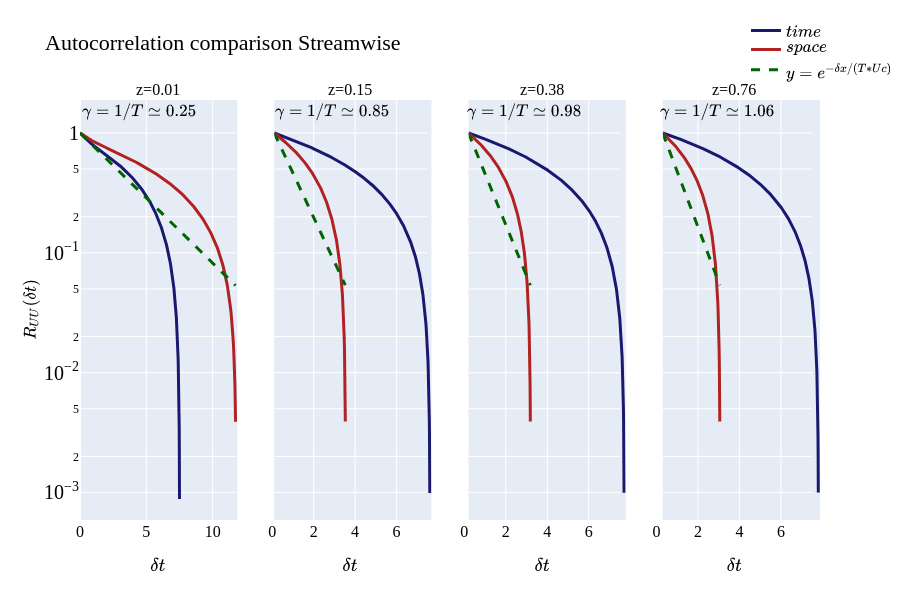
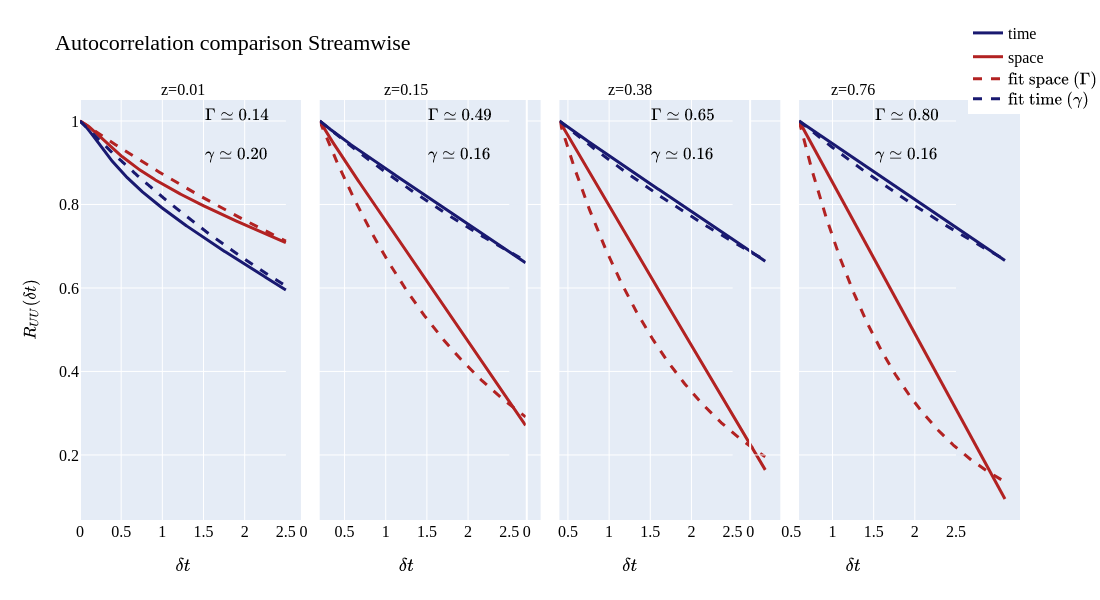
some new

diff --git a/src/main.py b/src/main.py
@@ -117,8 +117,6 @@ def main():
     # t = np.linspace(0,(tEnd-tStart)*dt,nt)
     # X = np.linspace(-np.pi, np.pi, n1)
     
-    dx = cflow.xlen / n1
-    
     print(f'{YELLOW}Streamwise paraeters{RESET}')
     print('len x1:', len(x1))
     print('len x2:', len(x2))
@@ -130,7 +128,8 @@ def main():
 
     ##### FROZEN TURBULENCE #####
     col = 1
-    fig1, fig2, fig3, fig4 = init_figures(z, n2) #Figure initialization
+    fig1u1, fig2u1, fig3u1, fig4u1 = init_figures(z, n2) #Figure initialization
+    fig1u2, fig2u2, fig3u2, fig4u2 = init_figures(z, n2)
     start_time = time.time()
     
     for zplan in np.arange(0, n2, n2//3, dtype=int):
@@ -138,40 +137,44 @@ def main():
         print("========================================")
         print(f'Frozen turbulence validation for {YELLOW}z={z[zplan]:.2f}{RESET}')
         print('Plan number:', zplan)
-        print("Reading input files ...\n")
+        print("Reading input files u1 streamwise...\n")
         _,_,_,var,_,_,_,_,_,_,_,_,_ = read_fpar_extract_plane(fpars_files_streamwise_u1[zplan])
         nt = nt - 1
         dx = cflow.xlen / n1
         datas_u1 = var[1:,:,:]
         
-        Uc = np.mean(np.mean(np.mean(datas_u1[:,:,:], axis=-1), axis=-1))
-        print('Uc:', Uc)
+        U1 = np.mean(np.mean(np.mean(datas_u1[:,:,:], axis=-1), axis=-1))
+        print('U1:', U1)
+        print('dx/U1:', dx/U1)
+        print('dt:', dt)
+        print('dx:', dx)
+        print('dt*Uc', dt*U1)
         
         #### Spectra ####
-        # omega, k, time_spectra, space_spectra = frozen_turbulence(datas_u1, zplan, z, nt, split_time, dt, n1, dx=dx, ch="spectra")
+        omega, k, time_spectra, space_spectra = frozen_turbulence(datas_u1, zplan, z, nt, split_time, dt, n1, dx=dx, ch="spectra")
         
-        # frozen_turbulence_plot(fig1, col, omega = omega, Uc = Uc, time_spectra = time_spectra, k = k, space_spectra = space_spectra, ch = "spectra")
+        frozen_turbulence_plot(fig1u1, col, omega = omega, Uc = U1, time_spectra = time_spectra, k = k, space_spectra = space_spectra, ch = "spectra")
         
-        # del time_spectra
-        # del space_spectra
-        # del omega
-        # del k
+        del time_spectra
+        del space_spectra
+        del omega
+        del k
         
         #### Autocorrelation ####
-        Dt, Dx, R_time, R_space = frozen_turbulence(datas_u1, zplan, z, nt, split_time, dt, n1, tEnd=tEnd, tStart=tStart, ch="corr")
+        # ind, Dt, Dx, R_time, R_space = frozen_turbulence(datas_u1, zplan, z, nt, split_time, dt, n1, tEnd=tEnd, tStart=tStart, ch="corr", dx=dx, Uc=U1)
 
-        frozen_turbulence_plot(fig2, col, Uc=Uc, R_time = R_time, R_space = R_space, Dt = Dt, Dx = Dx, ch = "corr")
+        # frozen_turbulence_plot(fig2u1, col, Uc=U1, R_time = R_time, R_space = R_space, Dt = Dt, Dx = Dx, ch = "corr", ind=ind)
         
-        del Dt
-        del Dx
-        del R_time
-        del R_space
+        # del Dt
+        # del Dx
+        # del R_time
+        # del R_space
         
         #### Autocorrelation 2D ####
         
         # Dt, Dx, R2d, coef = frozen_turbulence(datas_u1, zplan, z, nt, split_time, dt, n1, tEnd = tEnd, tStart = tStart, ch = "corr2d")
         
-        # frozen_turbulence_plot(fig3, col, Dt = Dt, Dx = Dx, R2d=R2d, coef=coef, ch = "corr2d")
+        # frozen_turbulence_plot(fig3u1, col, Dt = Dt, Dx = Dx, R2d=R2d, coef=coef, ch = "corr2d")
         
         # del Dt
         # del Dx
@@ -180,34 +183,102 @@ def main():
         #### Gamma ####
         
         # for delta_x in range(1, 20, 5):
-        #     kc, omega, funct = frozen_turbulence(datas_u1, zplan, z, nt, split_time, dt, n1, dx = delta_x, x1 = x1, Uc = Uc, ch = "gamma")
+        #     kc, omega, funct = frozen_turbulence(datas_u1, zplan, z, nt, split_time, dt, n1, dx = delta_x, x1 = x1, Uc = U1, ch = "gamma")
             
         #     r = np.abs(x1[delta_x] - x1[0])
             
             
-        #     frozen_turbulence_plot(fig4, col, omega = omega, k = kc, delta_x=delta_x, funct=funct, r=r, ch = "w_gamma")
+        #     frozen_turbulence_plot(fig4u1, col, omega = omega, k = kc, delta_x=delta_x, funct=funct, r=r, ch = "w_gamma")
             
         # del omega
         # del funct
         # del kc
         
-        # col +=1
-        # del datas_u1
+        
+        del datas_u1
+        
+        print("Reading input files u2 streamwise ...\n")
+        _,_,_,var,_,_,_,_,_,_,_,_,_ = read_fpar_extract_plane(fpars_files_streamwise_u2[zplan])
+        nt = nt - 1
+        dx = cflow.xlen / n1
+        datas_u2 = var[1:,:,:]
+        
+        U2 = np.mean(np.mean(np.mean(datas_u2[:,:,:], axis=-1), axis=-1))
+        print('U2:', U2)
+        
+        #### Spectra ####
+        omega, k, time_spectra, space_spectra = frozen_turbulence(datas_u2, zplan, z, nt, split_time, dt, n1, dx=dx, ch="spectra")
+        
+        frozen_turbulence_plot(fig1u2, col, omega = omega, Uc = U2, time_spectra = time_spectra, k = k, space_spectra = space_spectra, ch = "spectra")
+        
+        del time_spectra
+        del space_spectra
+        del omega
+        del k
+        
+        #### Autocorrelation ####
+        # ind, Dt, Dx, R_time, R_space = frozen_turbulence(datas_u2, zplan, z, nt, split_time, dt, n1, tEnd=tEnd, tStart=tStart, ch="corr", dx=dx, Uc=U2)
+
+        # frozen_turbulence_plot(fig2u2, col, Uc=U2, R_time = R_time, R_space = R_space, Dt = Dt, Dx = Dx, ch = "corr", ind=ind)
+        
+        # del Dt
+        # del Dx
+        # del R_time
+        # del R_space
+        
+        #### Autocorrelation 2D ####
+        
+        # Dt, Dx, R2d, coef = frozen_turbulence(datas_u2, zplan, z, nt, split_time, dt, n1, tEnd = tEnd, tStart = tStart, ch = "corr2d")
+        
+        # frozen_turbulence_plot(fig3u2, col, Dt = Dt, Dx = Dx, R2d=R2d, coef=coef, ch = "corr2d")
+        
+        # del Dt
+        # del Dx
+        # del R2d
+        
+        #### Gamma ####
+        
+        # for delta_x in range(1, 20, 5):
+        #     kc, omega, funct = frozen_turbulence(datas_u2, zplan, z, nt, split_time, dt, n1, dx = delta_x, x1 = x1, Uc = U2, ch = "gamma")
+            
+        #     r = np.abs(x1[delta_x] - x1[0])
+            
+            
+        #     frozen_turbulence_plot(fig4u2, col, omega = omega, k = kc, delta_x=delta_x, funct=funct, r=r, ch = "w_gamma")
+            
+        # del omega
+        # del funct
+        # del kc
+        
+        
+        del datas_u2
+        
+        col +=1
         
     elapsed_time = time.time() - start_time
     minutes, seconds = divmod(elapsed_time, 60)
         
     # Update layout properties
-    fig1.update_layout(height=600, width=900, title_text="Power spectra streawise", font=font, legend=dict(y=1.2, x=0.9))
-    fig2.update_layout(height=600, width=900, title_text='Autocorrelation comparison Streamwise', legend=dict(y=1.2, x=0.9), font=font)
-    fig3.update_layout(height=600, width=1100, title_text='Correlation 2D Streamwise', legend=dict(y=1.2, x=0.9), font=font)
-    fig4.update_layout(height=600, width=1100, title_text='Gamma determmination', legend=dict(y=1.2, x=1.0), font=font)
+    fig1u1.update_layout(height=600, width=1000, title_text="Power spectra streawise u1", font=font, legend=dict(y=1.2, x=1.0))
+    fig2u1.update_layout(height=600, width=1100, title_text='Autocorrelation comparison Streamwise u1', font=font,  legend=dict(y=1.2, x=1.0))
+    fig3u1.update_layout(height=600, width=1100, title_text='Correlation 2D Streamwise u1', legend=dict(y=1.2, x=0.9), font=font)
+    fig4u1.update_layout(height=600, width=1100, title_text='Gamma determination u1', legend=dict(y=1.2, x=1.0), font=font)
+    
+    fig1u2.update_layout(height=600, width=900, title_text="Power spectra Streawise u2", font=font, legend=dict(y=1.2, x=0.9))
+    fig2u2.update_layout(height=600, width=1100, title_text='Autocorrelation comparison Streamwise u2', font=font,  legend=dict(y=1.2, x=1.0))
+    fig3u2.update_layout(height=600, width=1100, title_text='Correlation 2D Streamwise u2', legend=dict(y=1.2, x=0.9), font=font)
+    fig4u2.update_layout(height=600, width=1100, title_text='Gamma determination u2', legend=dict(y=1.2, x=1.0), font=font)
     
     if split_time == 'Y':
-        # save_figures(fig1, "output/split_time/frozen_turbulence/PowerSpectraComparison.png")
-        save_figures(fig2, "output/split_time/frozen_turbulence/CorrelationComparison.png")
-        # save_figures(fig3, "output/split_time/frozen_turbulence/Correlation2D.png")
-        #save_figures(fig4, "output/split_time/frozen_turbulence/Crosscorrelation_omega.png")
+        save_figures(fig1u1, "output/split_time/frozen_turbulence/power_spectra/u1.png")
+        #save_figures(fig2u1, "output/split_time/frozen_turbulence/Autocorreation_u1.png")
+        # save_figures(fig3u1, "output/split_time/frozen_turbulence/Correlation2D_u1.png")
+        #save_figures(fig4u1, "output/split_time/gamma/gamma_u1.png")
+        
+        save_figures(fig1u2, "output/split_time/frozen_turbulence/power_spectra/u2.png")
+        #save_figures(fig2u2, "output/split_time/frozen_turbulence/Autocorreation_u2.png")
+        # save_figures(fig3u2, "output/split_time/frozen_turbulence/Correlation2D_u2.png")
+        #save_figures(fig4u2, "output/split_time/gamma/gamma_u1.png")
     
     print(f'\n Frozen turbulence valiation done in : {int(minutes)}m {seconds:.2f}s \n')
     

diff --git a/src/plot.py b/src/plot.py
@@ -10,7 +10,7 @@ font = dict(family="serif",
 def init_figures(z, n2):
     fig1 = make_subplots(rows=1, cols=4, shared_yaxes=True, y_title='$\phi(k_x)$', subplot_titles=(f"z={z[0]:.2f}", f"z={z[n2//3]:.2f}", f"z={z[2*n2//3]:.2f}", f"z={z[3*floor(n2//3)]:.2f}"))
     
-    fig2 = make_subplots(rows=1, cols=4, shared_yaxes=True, y_title='$R_{UU}(\delta t)$', subplot_titles=(f"z={z[0]:.2f}", f"z={z[n2//3]:.2f}", f"z={z[2*n2//3]:.2f}", f"z={z[3*floor(n2//3)]:.2f}"))
+    fig2 = make_subplots(rows=1, cols=4, shared_yaxes=True, y_title='$R_{UU}(\delta t)$', horizontal_spacing=0.02, subplot_titles=(f"z={z[0]:.2f}", f"z={z[n2//3]:.2f}", f"z={z[2*n2//3]:.2f}", f"z={z[3*floor(n2//3)]:.2f}"))
     
     fig3 = make_subplots(rows=1, cols=4, shared_yaxes=True, y_title='$\delta t$', subplot_titles=(f"z={z[0]:.2f}", f"z={z[n2//3]:.2f}", f"z={z[2*n2//3]:.2f}", f"z={z[3*floor(n2//3)]:.2f}"))
     
@@ -18,7 +18,7 @@ def init_figures(z, n2):
     
     return(fig1, fig2, fig3, fig4)
 
-def frozen_turbulence_plot(fig, col, omega = None, Uc = None, time_spectra = None, k = None, space_spectra = None, R_time = None, R_space = None, Dt = None, Dx = None, R2d=None, coef=None, delta_x=None, funct=None, r=None, ch = "spectra"):
+def frozen_turbulence_plot(fig, col, omega = None, Uc = None, time_spectra = None, k = None, space_spectra = None, R_time = None, R_space = None, Dt = None, Dx = None, R2d=None, coef=None, delta_x=None, funct=None, r=None, ind=None, ch = "spectra"):
     
     if ch == "spectra":
         
@@ -50,37 +50,46 @@ def frozen_turbulence_plot(fig, col, omega = None, Uc = None, time_spectra = Non
     if ch == "corr":
         
         if col == 4:
-            fig.add_trace(go.Scatter(x=Dt, y=R_time, name='$time$', line=dict(color='midnightblue', width=3)), row=1, col=col)
-            R_space_interpol = np.interp(Dt*Uc, Dx, R_space)
-            fig.add_trace(go.Scatter(x=Dt, y=R_space_interpol, name='$space$', line=dict(color='firebrick', width=3)), row=1, col=col)
+            fig.add_trace(go.Scatter(x=Dt[:ind], y=R_time[:ind], name='time', line=dict(color='midnightblue', width=3)), row=1, col=col)
+            R_space_interpol = np.interp(Dt[:ind]*Uc, Dx, R_space)
+            fig.add_trace(go.Scatter(x=Dt[:ind], y=R_space_interpol, name='space', line=dict(color='firebrick', width=3)), row=1, col=col)
             
-            fit_space = np.polyfit(Dt, np.log(R_space_interpol), 1)
-            curve_fit_space = np.exp(fit_space[0]*Dx/Uc)
-            fig.add_trace(go.Scatter(x=Dx/Uc, y=curve_fit_space, line=dict(color='darkgreen', dash='dash', width=3), name='$y=e^{-\delta x/(T*Uc)}$'), row=1, col=col)
-            fig.add_annotation(xanchor='left',x=0.1, yanchor='bottom', y=0.1, text=f'$\gamma = 1/T \simeq {np.abs(fit_space[0]):.2f}$', font=font, showarrow=False, row=1, col=col)
+            fit_space = np.polyfit(Dt[:ind], np.log(R_space_interpol), 1)
+            fit_time = np.polyfit(Dt[:ind], np.log(R_time[:ind]), 1)
+            curve_fit_space = np.exp(fit_space[0]*Dt)
+            curve_fit_time = np.exp(fit_time[0]*Dt)
+            fig.add_trace(go.Scatter(x=Dt[:ind], y=curve_fit_space, line=dict(color='firebrick', dash='dash', width=3), name='$\\text{fit space } (\Gamma)$'), row=1, col=col)
+            fig.add_trace(go.Scatter(x=Dt[:ind], y=curve_fit_time, line=dict(color='midnightblue', dash='dash', width=3), name='$\\text{fit time } (\gamma)$'), row=1, col=col)
+            fig.add_annotation(xanchor='left',x=1.5, yanchor='bottom', y=1, text=f'$\Gamma \simeq {np.abs(fit_space[0]):.2f}$', font=font, showarrow=False, row=1, col=col)
+            fig.add_annotation(xanchor='left',x=1.5, yanchor='bottom', y=0.9, text=f'$\gamma \simeq {np.abs(fit_time[0]):.2f}$', font=font, showarrow=False, row=1, col=col)
             
-            print('gamma:', np.abs(fit_space[0]))
+            print('Gamma:', np.abs(fit_space[0]))
+            print('gamma:', np.abs(fit_time[0]))
             
             # Update axis properties
             fig.update_xaxes(title_text="$\delta t$")
-            fig.update_yaxes(type="log", exponentformat='power')
+            #fig.update_yaxes(type="log", exponentformat='power')
             
         else:
-            fig.add_trace(go.Scatter(x=Dt, y=R_time, line=dict(color='midnightblue', width=3), showlegend=False), row=1, col=col)
-            fig.add_trace(go.Scatter(x=Dx/Uc, y=R_space, line=dict(color='firebrick', width=3), showlegend=False), row=1, col=col)
+            fig.add_trace(go.Scatter(x=Dt[:ind], y=R_time[:ind], line=dict(color='midnightblue', width=3), showlegend=False), row=1, col=col)
+            R_space_interpol = np.interp(Dt[:ind]*Uc, Dx, R_space)
+            fig.add_trace(go.Scatter(x=Dt[:ind], y=R_space_interpol, line=dict(color='firebrick', width=3), showlegend=False), row=1, col=col)
             
-            fit_space = np.polyfit(Dx/Uc, np.log(R_space), 1)
-            curve_fit_space = np.exp(fit_space[0]*Dx/Uc)
-            fig.add_trace(go.Scatter(x=Dx/Uc, y=curve_fit_space, line=dict(color='darkgreen', dash='dash', width=3), showlegend=False), row=1, col=col)
+            fit_space = np.polyfit(Dt[:ind], np.log(R_space_interpol), 1)
+            fit_time = np.polyfit(Dt[:ind], np.log(R_time[:ind]), 1)
+            curve_fit_space = np.exp(fit_space[0]*Dt)
+            curve_fit_time = np.exp(fit_time[0]*Dt)
+            fig.add_trace(go.Scatter(x=Dt[:ind], y=curve_fit_space, line=dict(color='firebrick', dash='dash', width=3), name='$y=\\frac{1}{U_c}e^{-\Gamma\delta t*U_c}$', showlegend=False), row=1, col=col)
+            fig.add_trace(go.Scatter(x=Dt[:ind], y=curve_fit_time, line=dict(color='midnightblue', dash='dash', width=3), name='$y=\\frac{1}{U_c}e^{-\gamma\delta t}$', showlegend=False), row=1, col=col)
+            fig.add_annotation(xanchor='left',x=1.5, yanchor='bottom', y=1, text=f'$\Gamma \simeq {np.abs(fit_space[0]):.2f}$', font=font, showarrow=False, row=1, col=col)
+            fig.add_annotation(xanchor='left',x=1.5, yanchor='bottom', y=0.9, text=f'$\gamma \simeq {np.abs(fit_time[0]):.2f}$', font=font, showarrow=False, row=1, col=col)
             
-            fig.add_annotation(xanchor='left',x=0.1, yanchor='bottom', y=0.1, text=f'$\gamma = 1/T \simeq {np.abs(fit_space[0]):.2f}$', font=font, showarrow=False, row=1, col=col)
-
-            
-            print('gamma:', np.abs(fit_space[0]))
+            print('Gamma:', np.abs(fit_space[0]))
+            print('gamma:', np.abs(fit_time[0]))
             
             # Update axis properties
             fig.update_xaxes(title_text="$\delta t$", row=1, col=col)
-            fig.update_yaxes(type="log", exponentformat='power')
+            #fig.update_yaxes(type="log", exponentformat='power')
             
 
     if ch == 'corr2d':

diff --git a/src/engine.py b/src/engine.py
@@ -56,7 +56,16 @@ def frozen_turbulence(datas, zplan, z, nt, split_time, dt, n1, dx = None, tEnd =
             R_space /= (num_split_t-1)
             R_time /= (num_split_t-1)
             
-            return(Dt, Dx, R_time, R_space)
+            cut_t = (tEnd-tStart)*dt/3
+            ind = 0
+            for i in range(R_time.shape[0]):
+                if Dt[i]>cut_t:
+                    ind = i
+                    break
+                
+            print('ind:', ind)
+            
+            return(ind, Dt, Dx, R_time, R_space)
         
         if ch == 'corr2d':
             
